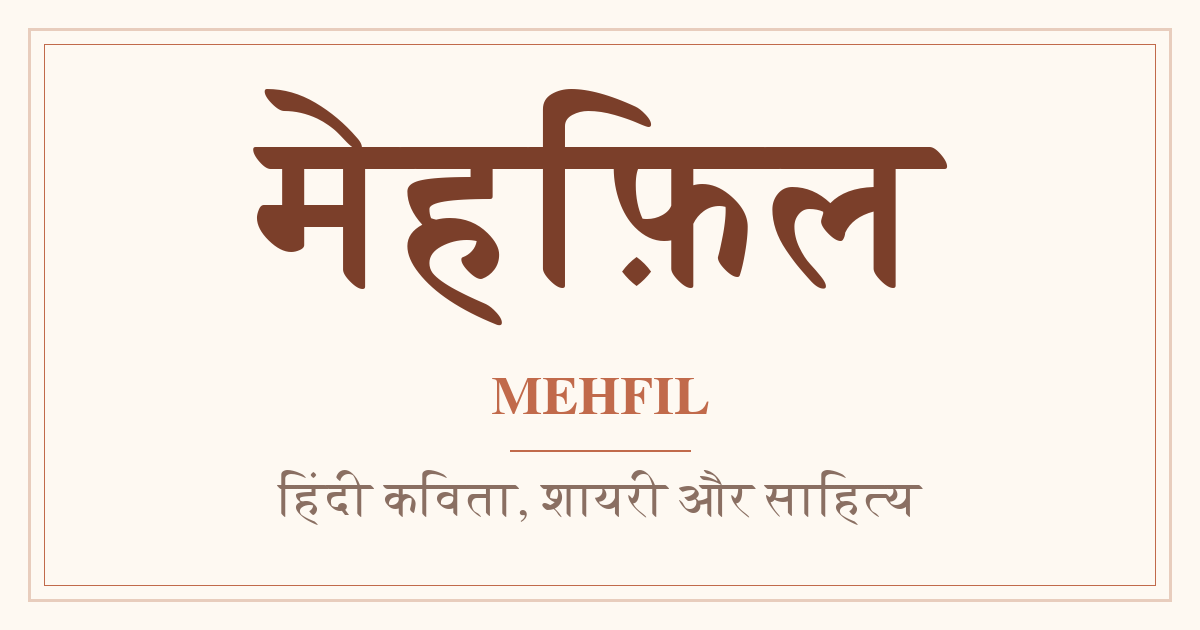
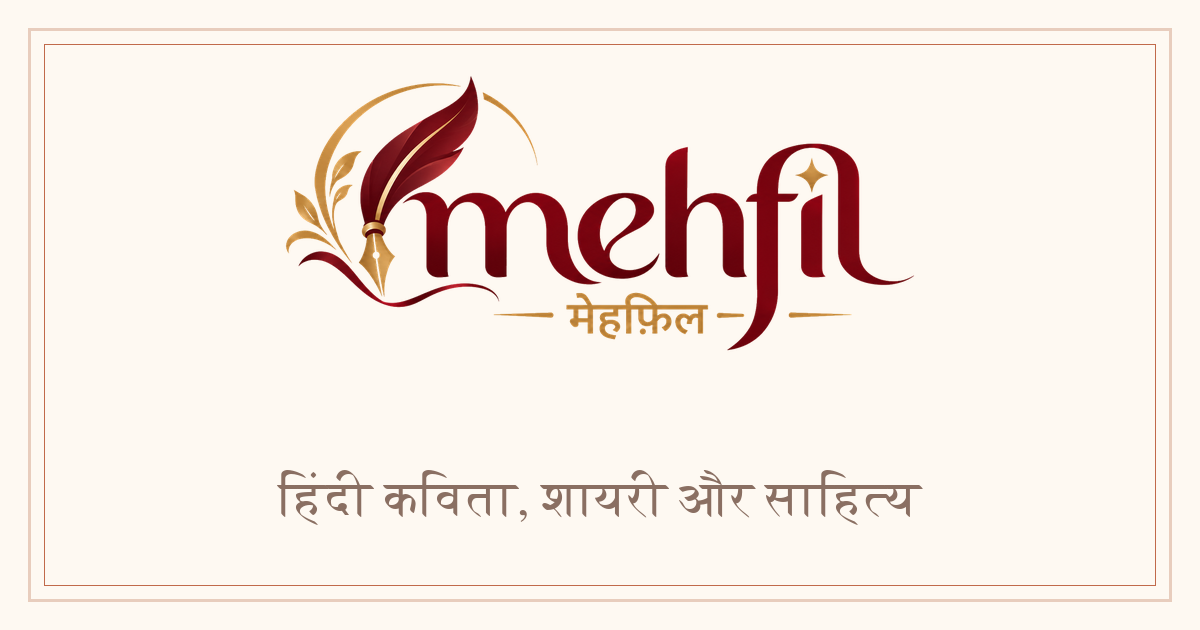
Add files via upload

Changed region(s): [[0.2158, 0.1206, 0.8017, 0.5429], [0.4008, 0.6032, 0.5858, 0.6635], [0.4317, 0.6937, 0.555, 0.7238]]

diff --git a/lib/shareCard/logo.ts b/lib/shareCard/logo.ts
@@ -1,12 +1,13 @@
 /**
  * Mehfil brand mark for canvas.
  *
- * The project ships no logo image: the brand mark used by the site header and footer is the Font Awesome
- * "feather" icon followed by the "मेहफ़िल" wordmark in the terracotta gradient (see .logo in globals.css).
- * The same feather glyph is drawn here as a vector path (Font Awesome Free, CC BY 4.0) so the share card
- * carries the identical logo, stays sharp at any scale and needs no network request.
+ * Share cards use the official logo image (public/mehfil-logo.png, plus a cream/gold variant for dark themes).
+ * The Font Awesome feather glyph (Free, CC BY 4.0) is still drawn as a vector path for the faint watermark and
+ * as the fallback lock-up if the image is unavailable.
  */
 import { BRAND_DEVA_FONT } from './fonts';
+import { getLogoImage } from './brandImage';
+export { preloadBrandLogo } from './brandImage';
 import type { CardTheme } from './themes';
 
 const FEATHER_PATH =
@@ -55,8 +56,33 @@ export function centreToBaseline(ctx: CanvasRenderingContext2D, fallbackSize: nu
   return fallbackSize * 0.3;
 }
 
-/** Feather + "मेहफ़िल" wordmark, centred horizontally on cx. Returns the lock-up width. */
-export function drawBrandLockup(ctx: CanvasRenderingContext2D, theme: CardTheme, cx: number, cy: number): number {
+/**
+ * Official Mehfil logo (public/mehfil-logo*.png), centred on (cx, cy) and `height` px tall. Dark card themes get the
+ * cream/gold variant so it stays readable. If the image has not loaded (yet) the old feather + wordmark lock-up is
+ * drawn instead, so a card can never come out without branding. Returns the drawn width.
+ */
+export function drawBrandLockup(
+  ctx: CanvasRenderingContext2D,
+  theme: CardTheme,
+  cx: number,
+  cy: number,
+  height = 104,
+): number {
+  const img = getLogoImage(theme.isDark ? 'light' : 'dark');
+  if (img && img.naturalWidth > 0) {
+    const w = (img.naturalWidth / img.naturalHeight) * height;
+    ctx.save();
+    ctx.imageSmoothingEnabled = true;
+    ctx.imageSmoothingQuality = 'high';
+    ctx.drawImage(img, cx - w / 2, cy - height / 2, w, height);
+    ctx.restore();
+    return w;
+  }
+  return drawTextLockup(ctx, theme, cx, cy);
+}
+
+/** Fallback: feather + "मेहफ़िल" wordmark, centred horizontally on cx. Returns the lock-up width. */
+function drawTextLockup(ctx: CanvasRenderingContext2D, theme: CardTheme, cx: number, cy: number): number {
   const featherSize = 70;
   const gap = 18;
 

diff --git a/lib/shareCard/brandImage.ts b/lib/shareCard/brandImage.ts
@@ -1,0 +1,33 @@
+/**
+ * Loads the official Mehfil logo PNGs once for canvas drawing (no other imports, so fonts.ts and logo.ts can both use it).
+ *   dark  -> public/mehfil-logo.png        (maroon + gold, for light card themes)
+ *   light -> public/mehfil-logo-light.png  (cream + gold, for dark card themes)
+ */
+const LOGO_SRC = { dark: '/mehfil-logo.png', light: '/mehfil-logo-light.png' } as const;
+export type LogoTone = keyof typeof LOGO_SRC;
+const logoImgs: Partial<Record<LogoTone, HTMLImageElement>> = {};
+const logoLoads: Partial<Record<LogoTone, Promise<void>>> = {};
+
+function loadLogo(tone: LogoTone): Promise<void> {
+  if (typeof Image === 'undefined') return Promise.resolve();
+  return (logoLoads[tone] ??= new Promise<void>((resolve) => {
+    const img = new Image();
+    img.decoding = 'async';
+    img.onload = () => {
+      logoImgs[tone] = img;
+      resolve();
+    };
+    img.onerror = () => resolve(); // fall back to the vector feather + text lock-up below
+    img.src = LOGO_SRC[tone];
+  }));
+}
+
+/** Loads both logo variants. Await before painting a card; never rejects. */
+export function preloadBrandLogo(): Promise<void> {
+  return Promise.all([loadLogo('dark'), loadLogo('light')]).then(() => undefined);
+}
+
+
+export function getLogoImage(tone: LogoTone): HTMLImageElement | undefined {
+  return logoImgs[tone];
+}

diff --git a/lib/shareCard/BadgeImageGenerator.ts b/lib/shareCard/BadgeImageGenerator.ts
@@ -5,7 +5,7 @@
  * Only presentation lives here: whether a badge is unlocked always comes from the backend.
  */
 import { loadAuthorImage } from './avatar';
-import { drawBrandLockup, drawFeather } from './logo';
+import { drawBrandLockup, drawFeather, preloadBrandLogo } from './logo';
 import { BRAND_DEVA_FONT } from './fonts';
 import { THEMES } from './themes';
 import { BADGE_TONES, badgeTone } from '../recognition';
@@ -113,6 +113,7 @@ export async function prepareBadgeCard(d: ShareBadgeData) {
         document.fonts.load(stack(40), sample).catch(() => []),
         document.fonts.load(`700 40px ${LATIN}`, 'Mehfil mehfil.in').catch(() => []),
         document.fonts.load(BRAND_DEVA_FONT, 'मेहफ़िल').catch(() => []),
+        preloadBrandLogo(),
       ]),
       new Promise((r) => setTimeout(r, 6000)),
     ]);
@@ -152,7 +153,7 @@ export async function renderBadgeCardToBlob(d: ShareBadgeData): Promise<Blob> {
   ctx.beginPath(); ctx.roundRect(58, 58, W - 116, H - 116, 28); ctx.stroke();
 
   // Brand lock-up (top)
-  drawBrandLockup(ctx, theme, cx, 140);
+  drawBrandLockup(ctx, theme, cx, 144, 124);
 
   // Avatar
   const ay = 330, ar = 92;

diff --git a/lib/shareCard/PoemImageGenerator.ts b/lib/shareCard/PoemImageGenerator.ts
@@ -30,7 +30,7 @@ export const GEOMETRY = {
   bodyWidth: CARD_WIDTH - 280,
   bodyTop: 376,
   bodyHeight: 656,
-  footerLogoY: 1112,
+  footerLogoY: 1124,
   footerUrlY: 1210,
 };
 
@@ -232,7 +232,7 @@ function drawPoem(ctx: CanvasRenderingContext2D, layout: PoemLayout, page: numbe
 
 function drawFooter(ctx: CanvasRenderingContext2D, options: ShareCardOptions, page: number, pageCount: number) {
   const theme = THEMES[options.background];
-  drawDivider(ctx, theme, CARD_WIDTH / 2, GEOMETRY.footerLogoY - 62, 70);
+  drawDivider(ctx, theme, CARD_WIDTH / 2, GEOMETRY.footerLogoY - 66, 70);
   drawBrandLockup(ctx, theme, CARD_WIDTH / 2, GEOMETRY.footerLogoY);
 
   ctx.save();

diff --git a/lib/shareCard/fonts.ts b/lib/shareCard/fonts.ts
@@ -13,6 +13,7 @@
  *   Urdu        Noto Nastaliq Urdu
  */
 import type { FontStyleId } from './types';
+import { preloadBrandLogo } from './brandImage';
 
 export type Script = 'latin' | 'deva' | 'arab';
 
@@ -156,6 +157,8 @@ export async function ensureCardFonts(style: FontStyleId, text: string, timeoutM
   add(`${def.nameWeight} 40px ${def.families.deva}`, 'मेहफ़िल');
   add(BRAND_DEVA_FONT, 'मेहफ़िल');
   add(URL_FONT, 'mehfil.in');
+
+  jobs.push(preloadBrandLogo());
 
   await Promise.race([Promise.all(jobs), new Promise((r) => setTimeout(r, timeoutMs))]);
   epoch++;

diff --git a/lib/mehfil.ts b/lib/mehfil.ts
@@ -2,7 +2,7 @@ import type { SocialLinks } from '@/lib/socialLinks';
 import type { ProfileBadge, ProfileFrameInfo } from '@/lib/recognition';
 
 // Set NEXT_PUBLIC_API_URL=http://localhost:5000 in .env.local to talk to a local backend.
-export const API_BASE_URL = process.env.NEXT_PUBLIC_API_URL || 'https://mehfilbackend.onrender.com';
+export const API_BASE_URL = process.env.NEXT_PUBLIC_API_URL || 'https://mehfilbackend-lhfl.onrender.com';
 // export const API_BASE_URL = 'http://192.168.0.79:5000';
 
 /** Default profile picture used when a user has not uploaded one. */
